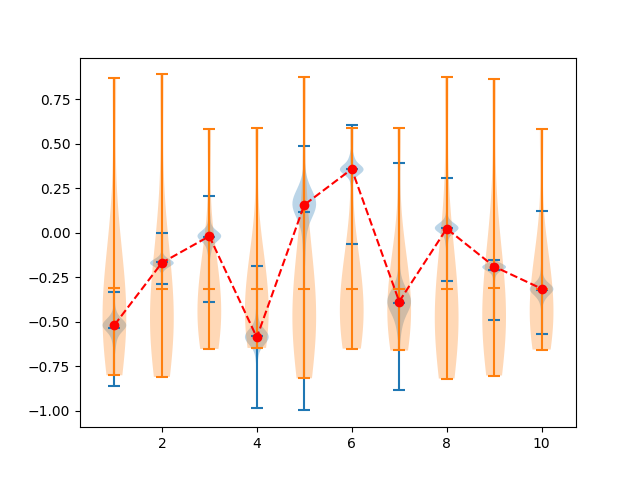
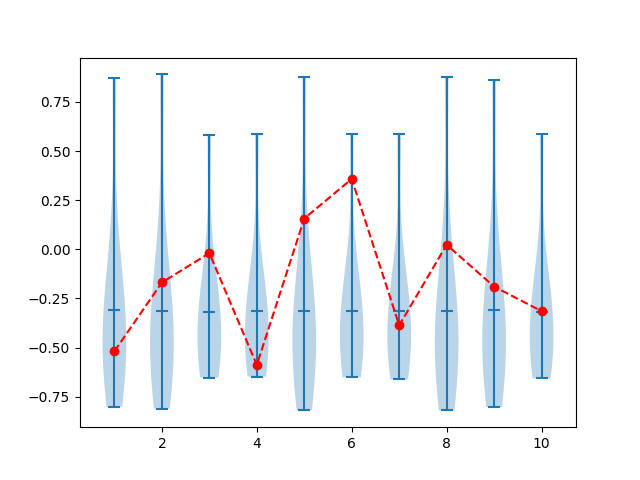
start batch training samples payload done

diff --git a/ver2.py b/ver2.py
@@ -22,6 +22,7 @@ import tensorflow as tf
 import tensorflow_datasets as tdfs 
 
 
+from scipy.fft import rfftn, irfftn
 from sympy import symbols
 from scipy import linalg 
 import numpy as np
@@ -48,6 +49,12 @@ BATCH_SIZE = 1024
 tf.config.run_functions_eagerly(True)
 # do not remove forces tf.data to run eagerly
 # tf.data.experimental.enable_debug_mode()
+
+def product(x):
+    out = 1
+    for y in x:
+        out *= y
+    return out 
 
 # saver function helper
 def save(filename, write):
@@ -344,6 +351,19 @@ def create_sols_from_system(solved_system):
     # what next sheafify outputs?
     return solutions
 
+def ceildiv(a, b):
+    return -(a // -b)
+
+def interpolate_fft_train(sols, size):
+    newsols = []
+    for sol in sols:
+        data = sol[0]
+        out = sol[1]
+        print([*size, *sol[0].shape])
+        newsols.append(irfftn(data, product(size)*product(data.shape), out))
+
+    return newsols
+
 def model_create_equation(model_dir, tex_save, training_data):
     # check optional args
     # from io import StringIO
@@ -356,13 +376,8 @@ def model_create_equation(model_dir, tex_save, training_data):
         shapes = []
         layers = []
         
-        def product(x):
-            out = 1
-            for y in x:
-                out *= y
-            return out 
-        
-        # append input shape remove None type
+       
+        # append input shape remove None typp/e
         shapes.append([product(model.input_shape[1:])])
         activations = []
 
@@ -405,22 +420,24 @@ def model_create_equation(model_dir, tex_save, training_data):
         sort_avg = sorted(
             output_aggregator(model, training_data), key= lambda tup: tup[0])
 
-        from scipy.fft import rfftn
         # sheafifed = irfftn(solution, shapes[0]) 
         sheafifed = np.imag(rfftn(solution, shapes[0]))
 
-        tester(model, shapes[-1], sheafifed, outward, sort_avg, "test.png")
+        tester(model, shapes[-1], sheafifed, outward, sort_avg, "test.png", False)
 
         model_shape = [1 if x is None else x for x in model.input_shape]
-        model.fit(x=np.reshape(sols[-1][1], [sols[-1][1].shape[0], *model_shape[1:]]), y=sols[-1][0])
+        expanded = list(zip(*interpolate_fft_train(sols[-1], [BATCH_SIZE * len(sols[-1][1]), *model_shape[1:]])))
+
+        model.fit(x=np.reshape(expanded[0], [BATCH_SIZE * len(sols[-1][1]), *model_shape[1:]]), y=expanded[1])
 
         sort_avg = sorted(
             output_aggregator(model, training_data), key= lambda tup: tup[0])
 
-        tester(model, shapes[-1], sheafifed, outward, sort_avg, "withpayload.png")
+        tester(model, shapes[-1], sheafifed, outward, sort_avg, "withpayload.png", True)
 
 
-def tester(model, outshape, sheafout, sheafs, sort_avg, name):
+
+def tester(model, outshape, sheafout, sheafs, sort_avg, name, payload):
     model_shape = [1 if x is None else x for x in model.input_shape]
     out = np.reshape(sheafout, model_shape) 
     final_test = model(out)
@@ -445,8 +462,11 @@ def tester(model, outshape, sheafout, sheafs, sort_avg, name):
 
     template = np.reshape(np.arange(1, len(avg_outs)+1), outshape[-1])
     # plt.plot(prelims) 
-    plt.violinplot(np.transpose(bucketize(prelims)), showmeans=True) 
-    plt.violinplot(np.transpose(avg_outs), showmeans=True) 
+    if not payload:
+        plt.violinplot(np.transpose(avg_outs), showmeans=True) 
+    else:
+        plt.violinplot(np.transpose(bucketize(prelims)), showmeans=True) 
+
     plt.plot(template, np.transpose(final_test.numpy()), "ro--")
 
     plt.savefig(name)
